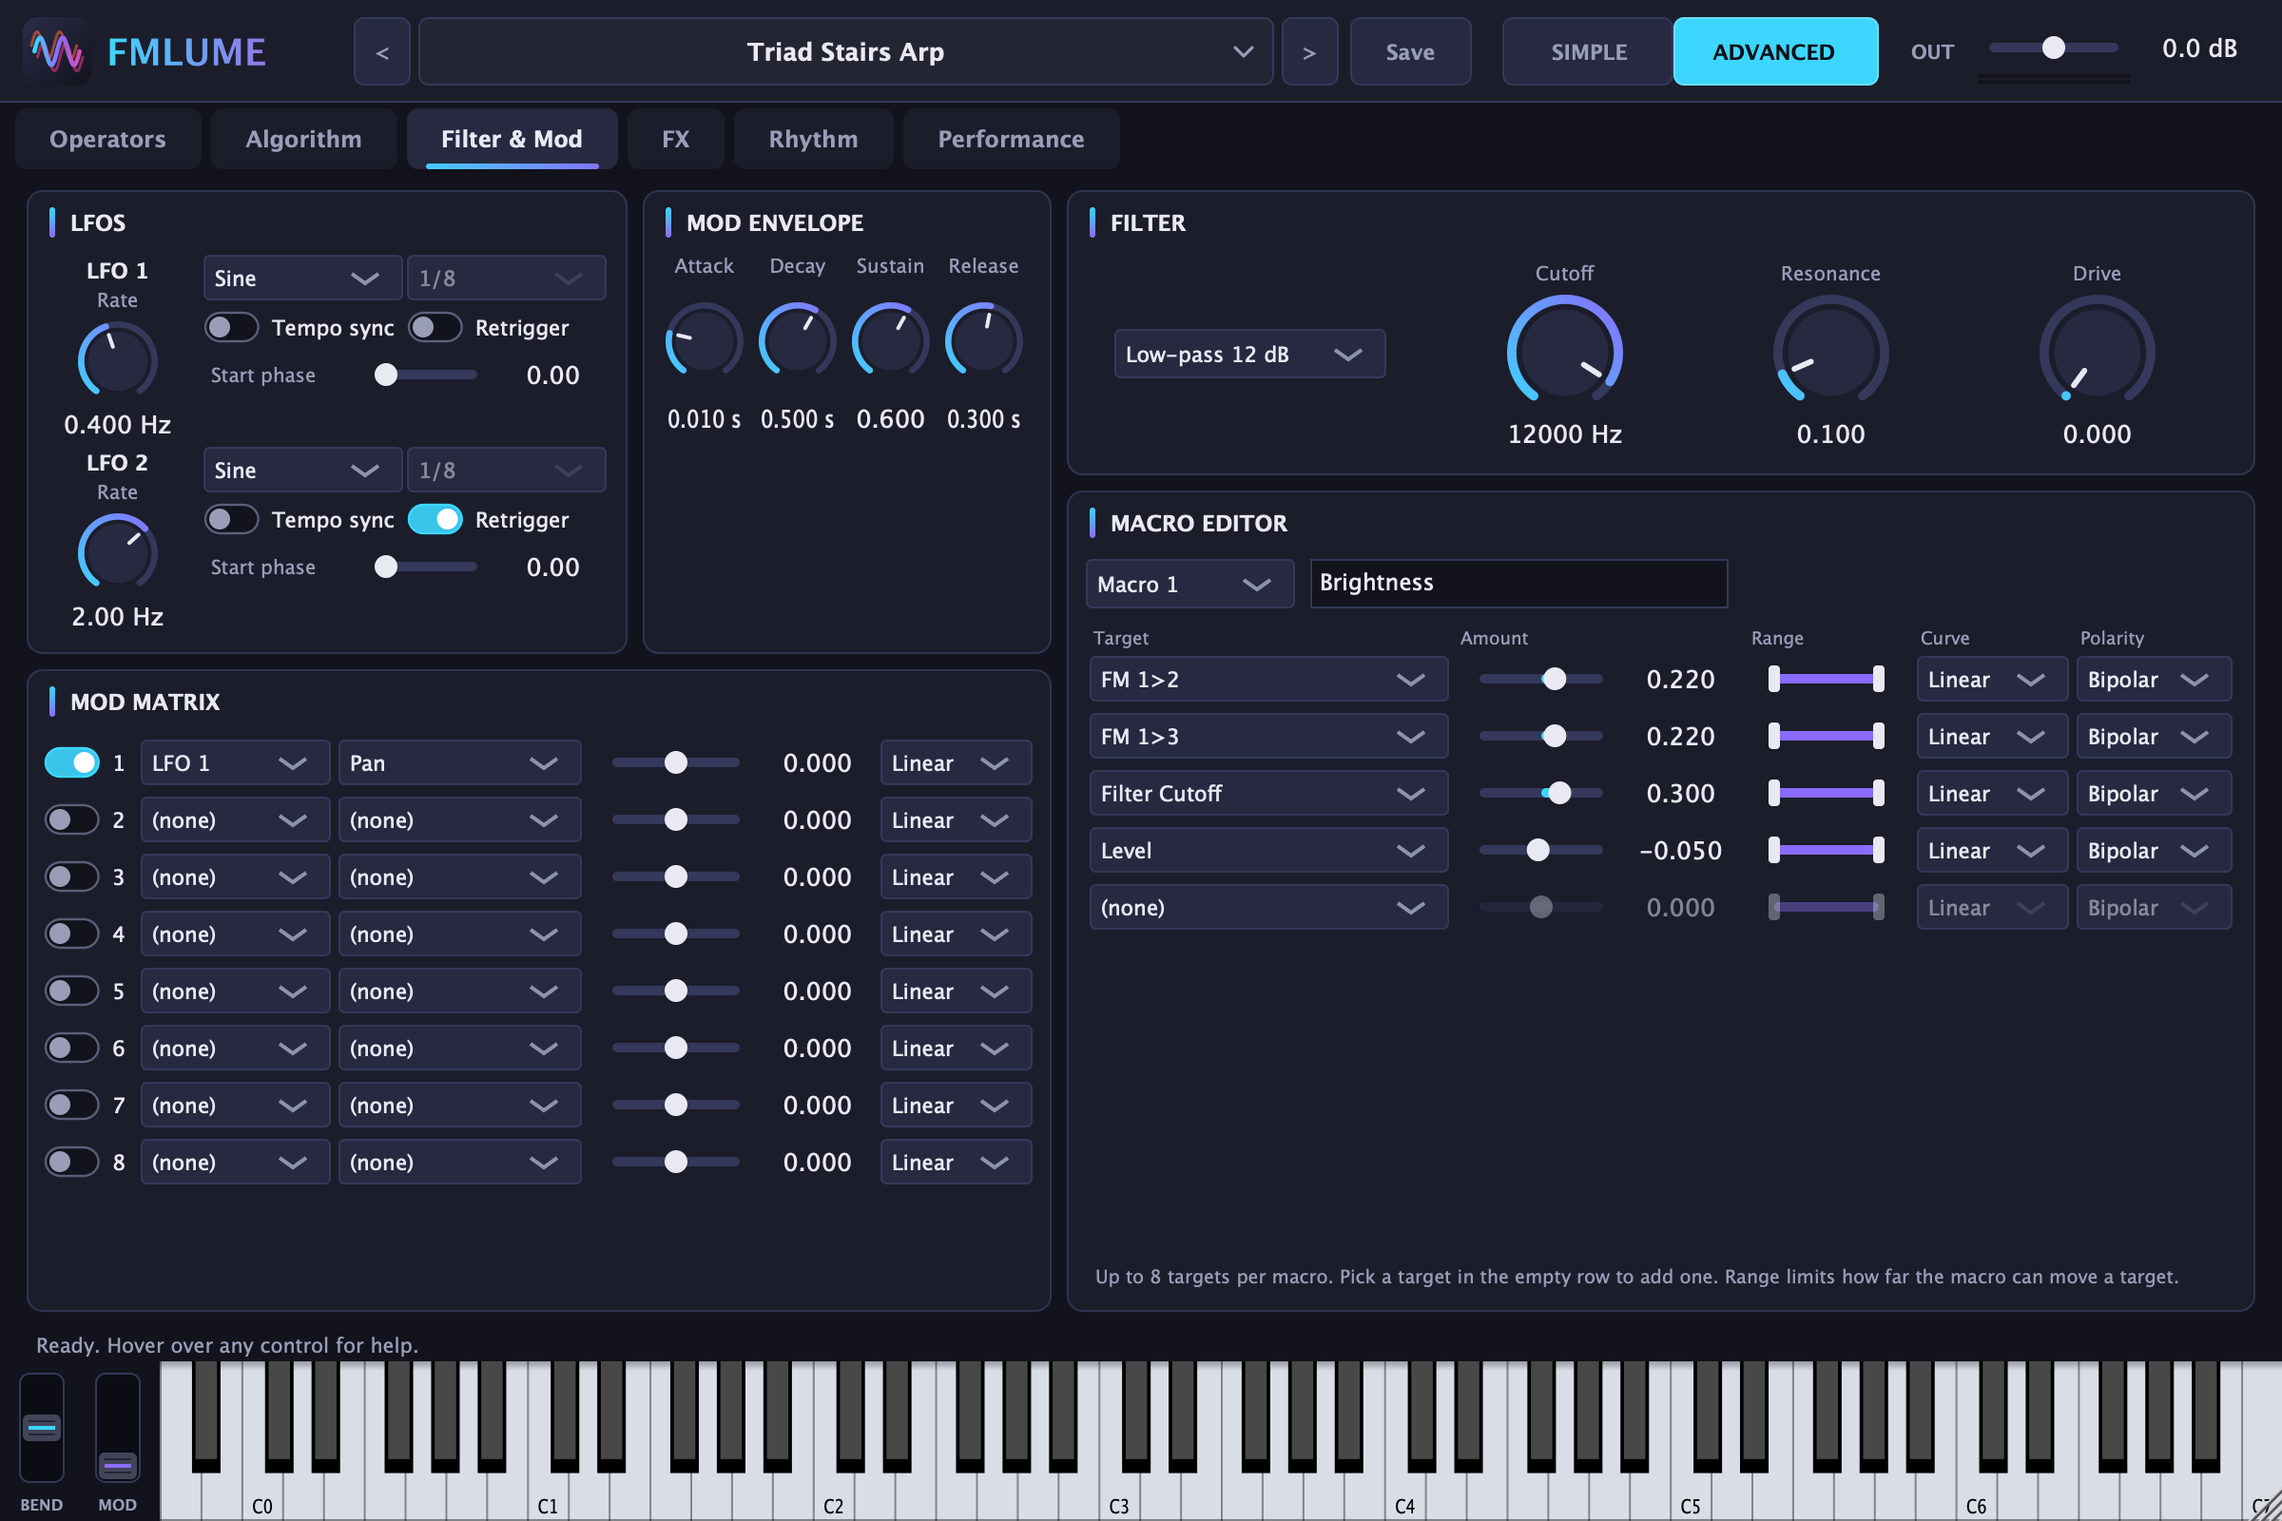
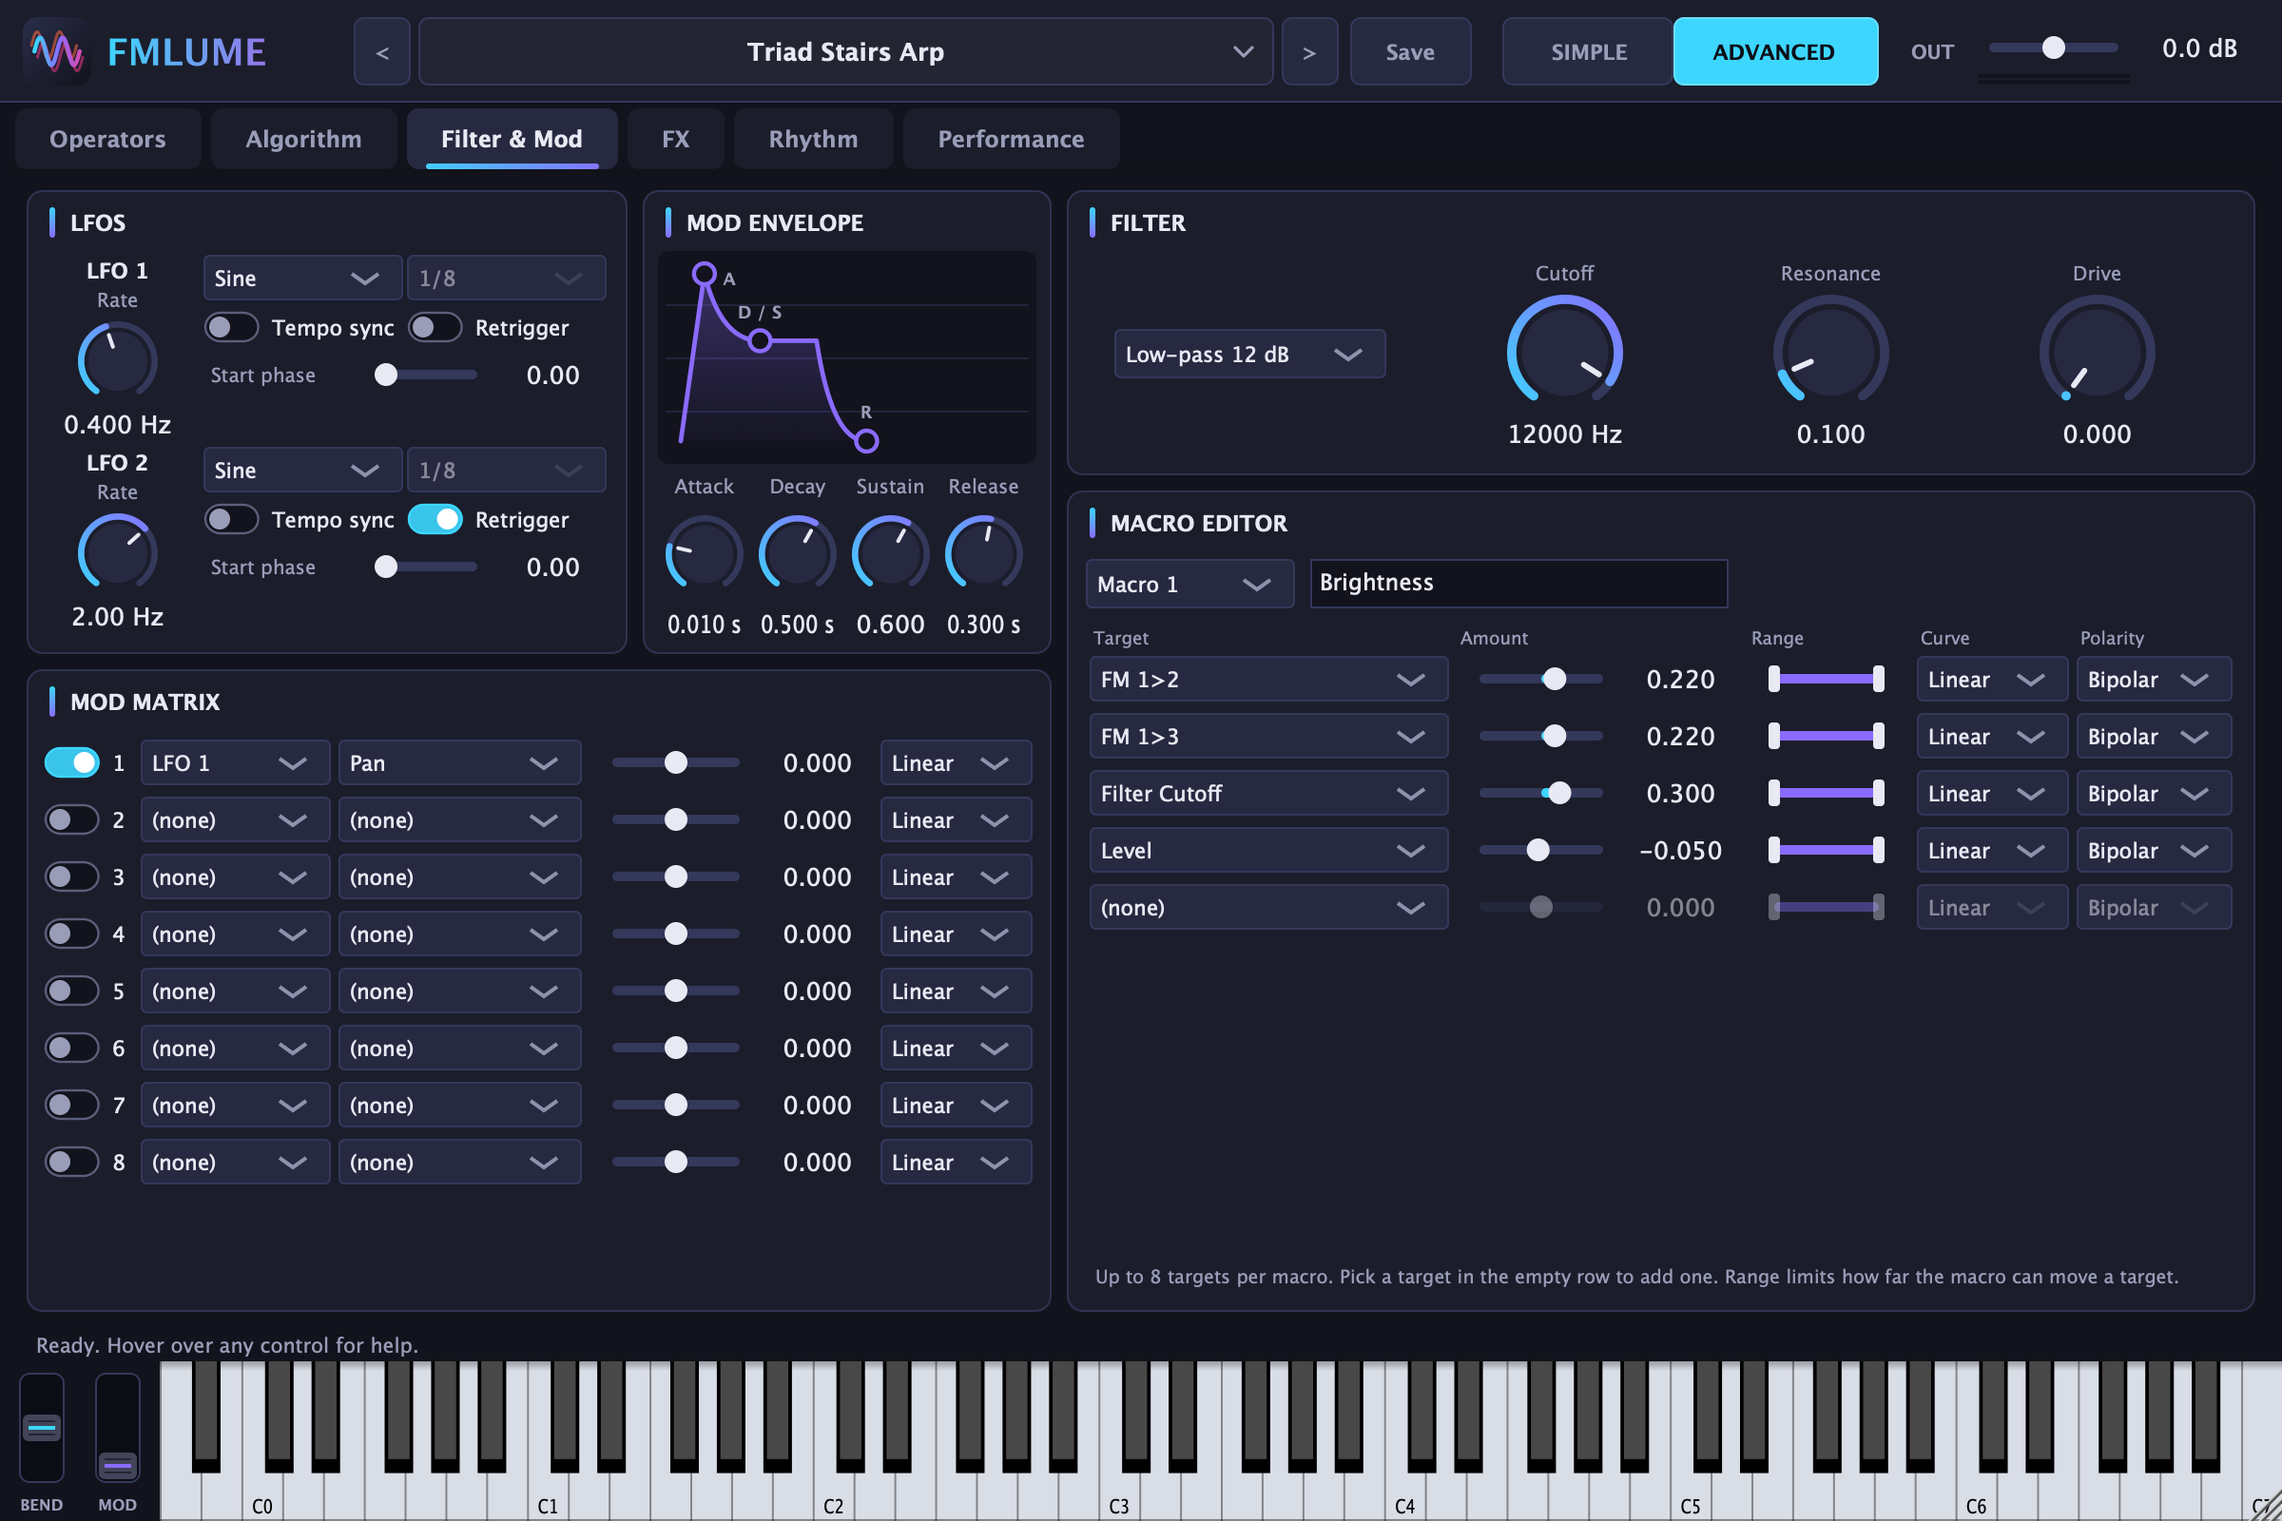
Mod Envelope をグラフで編集できるようにする
Advanced > Filter & Mod の MOD ENVELOPE パネルに、Operators タブと同じ
ADSR グラフを追加。点をドラッグしてアタック、ディケイ / サステイン、
リリースを編集でき、4 つのノブはグラフの下に残して連動する。

- EnvelopeView を「選択中のオペレーター」と「Mod Envelope」の両方で
  使えるように一般化（時間の範囲が違うのでパラメーターコードで換算）
- README、SPEC、サイトのスクリーンショットを更新

Changed region(s): [[0.2812, 0.1562, 0.4688, 0.2812], [0.2812, 0.3125, 0.4688, 0.4375]]

diff --git a/Source/UI/Advanced/OperatorsTab.cpp b/Source/UI/Advanced/OperatorsTab.cpp
@@ -6,8 +6,10 @@ using namespace fmlume;
 
 namespace
 {
-float timeNorm (int field, float seconds) { return toNorm (paramDesc (pc::op (0, field)), seconds); }
-float timeFromNorm (int field, float n) { return fromNorm (paramDesc (pc::op (0, field)), juce::jlimit (0.0f, 1.0f, n)); }
+float timeNorm (int code, float seconds) { return toNorm (paramDesc (code), seconds); }
+float timeFromNorm (int code, float n) { return fromNorm (paramDesc (code), juce::jlimit (0.0f, 1.0f, n)); }
+static_assert (kOpEnvD == kOpEnvA + 1 && kOpEnvS == kOpEnvA + 2 && kOpEnvR == kOpEnvA + 3, "ADSR fields are consecutive");
+static_assert (pc::modEnvD == pc::modEnvA + 1 && pc::modEnvS == pc::modEnvA + 2 && pc::modEnvR == pc::modEnvA + 3, "Mod Envelope codes are consecutive");
 // Envelope graph geometry: each timed stage may take up to `kStage` of the width.
 constexpr float kStage = 0.27f, kHold = 0.17f, kMinStage = 0.04f;
 float stageWidth (float norm, float w) { return (kMinStage + (1.0f - kMinStage) * norm) * w * kStage; }
@@ -23,14 +25,14 @@ juce::String feedsText (const EnginePatch& e, int op)
 }
 
 // ================================================================================= EnvelopeView
-std::array<juce::Point<float>, 3> EnvelopeView::drawEnvelope (juce::Graphics& g, juce::Rectangle<float> r, const ADSR& env, juce::Colour colour, bool fill, float lineWidth)
+std::array<juce::Point<float>, 3> EnvelopeView::drawEnvelope (juce::Graphics& g, juce::Rectangle<float> r, const ADSR& env, juce::Colour colour, bool fill, float lineWidth, int firstCode)
 {
     const float w = r.getWidth(), top = r.getY(), bottom = r.getBottom();
     const float x0 = r.getX();
-    const float x1 = x0 + stageWidth (timeNorm (kOpEnvA, env.a), w);
-    const float x2 = x1 + stageWidth (timeNorm (kOpEnvD, env.d), w);
+    const float x1 = x0 + stageWidth (timeNorm (firstCode, env.a), w);
+    const float x2 = x1 + stageWidth (timeNorm (firstCode + 1, env.d), w);
     const float x3 = x2 + w * kHold;
-    const float x4 = x3 + stageWidth (timeNorm (kOpEnvR, env.r), w);
+    const float x4 = x3 + stageWidth (timeNorm (firstCode + 3, env.r), w);
     const float ys = bottom - juce::jlimit (0.0f, 1.0f, env.s) * r.getHeight();
     juce::Path p;
     p.startNewSubPath (x0, bottom);
@@ -50,16 +52,25 @@ std::array<juce::Point<float>, 3> EnvelopeView::drawEnvelope (juce::Graphics& g,
     return { juce::Point<float> (x1, top), juce::Point<float> (x2, ys), juce::Point<float> (x4, bottom) };
 }
 
-EnvelopeView::EnvelopeView (Ctx& c) : ctx (c)
+EnvelopeView::EnvelopeView (Ctx& c, Source s) : ctx (c), source (s), colour (col::violet)
 {
     setTooltip ("Drag the dots: first = attack time, second = decay time (sideways) and sustain level (up/down), third = release time.");
 }
 
 void EnvelopeView::refresh (const Preset& p)
 {
-    state = p.data.sound.engine.operators[(size_t) ctx.selectedOp];
+    const auto& e = p.data.sound.engine;
+    if (source == Source::ModEnvelope) { env = e.modEnv; colour = col::violet; }
+    else
+    {
+        const auto& op = e.operators[(size_t) ctx.selectedOp];
+        env = op.env;
+        colour = op.enabled ? roleColour (op) : col::textDim;
+    }
     repaint();
 }
+
+int EnvelopeView::firstCode() const { return source == Source::ModEnvelope ? pc::modEnvA : pc::op (ctx.selectedOp, kOpEnvA); }
 
 void EnvelopeView::paint (juce::Graphics& g)
 {
@@ -69,8 +80,8 @@ void EnvelopeView::paint (juce::Graphics& g)
     g.setColour (col::outline.withAlpha (0.5f));
     for (int i = 1; i < 4; ++i) g.drawHorizontalLine (juce::roundToInt (bounds.getY() + bounds.getHeight() * (float) i / 4.0f), bounds.getX() + 4.0f, bounds.getRight() - 4.0f);
     const auto r = bounds.reduced (12.0f, 12.0f);
-    const juce::Colour c = state.enabled ? roleColour (state) : col::textDim;
-    handles = drawEnvelope (g, r, state.env, c, true, 2.4f);
+    const juce::Colour c = colour;
+    handles = drawEnvelope (g, r, env, c, true, 2.4f, firstCode());
     static const char* const names[3] = { "A", "D / S", "R" };
     for (int i = 0; i < 3; ++i)
     {
@@ -111,22 +122,24 @@ void EnvelopeView::mouseDrag (const juce::MouseEvent& e)
     if (dragging < 0) return;
     const auto r = getLocalBounds().toFloat().reduced (12.0f, 12.0f);
     const float w = r.getWidth();
+    const int code = firstCode();
+    const bool mod = source == Source::ModEnvelope;
     const int op = ctx.selectedOp;
     if (dragging == 0)
-        ctx.set (pc::op (op, kOpEnvA), timeFromNorm (kOpEnvA, stageNorm (e.position.x - r.getX(), w)));
+        ctx.set (code, timeFromNorm (code, stageNorm (e.position.x - r.getX(), w)));
     else if (dragging == 1)
     {
         // both values in one validated edit
-        const float decay = timeFromNorm (kOpEnvD, stageNorm (e.position.x - handles[0].x, w));
+        const float decay = timeFromNorm (code + 1, stageNorm (e.position.x - handles[0].x, w));
         const float sustain = juce::jlimit (0.0f, 1.0f, (r.getBottom() - e.position.y) / r.getHeight());
         ctx.edit ([=] (Preset& p) {
-            auto& env = p.data.sound.engine.operators[(size_t) op].env;
-            env.d = decay;
-            env.s = sustain;
+            auto& target = mod ? p.data.sound.engine.modEnv : p.data.sound.engine.operators[(size_t) op].env;
+            target.d = decay;
+            target.s = sustain;
         });
     }
     else
-        ctx.set (pc::op (op, kOpEnvR), timeFromNorm (kOpEnvR, stageNorm (e.position.x - (handles[1].x + w * kHold), w)));
+        ctx.set (code + 3, timeFromNorm (code + 3, stageNorm (e.position.x - (handles[1].x + w * kHold), w)));
 }
 
 void EnvelopeView::mouseUp (const juce::MouseEvent&)

diff --git a/Source/UI/Advanced/ModulationTab.cpp b/Source/UI/Advanced/ModulationTab.cpp
@@ -273,8 +273,9 @@ struct ModulationTab::MappingRow final : public juce::Component
     bool updating = false;
 };
 
-ModulationTab::ModulationTab (Ctx& c) : ctx (c)
+ModulationTab::ModulationTab (Ctx& c) : ctx (c), envGraph (c, EnvelopeView::Source::ModEnvelope)
 {
+    addAndMakeVisible (envGraph);
     for (int i = 0; i < 2; ++i) { lfos[i] = std::make_unique<LfoBox> (ctx, i); addAndMakeVisible (*lfos[i]); }
     static const char* const envNames[4] = { "Attack", "Decay", "Sustain", "Release" };
     for (int i = 0; i < 4; ++i) addAndMakeVisible (envKnobs.add (new ModelKnob (ctx, pc::modEnvA + i, envNames[i])));
@@ -359,8 +360,12 @@ void ModulationTab::resized()
     lfos[0]->setBounds (l.removeFromTop (l.getHeight() / 2).reduced (0, 2));
     lfos[1]->setBounds (l.reduced (0, 2));
     auto e = envArea.reduced (8).withTrimmedTop (24);
-    const int kw = e.getWidth() / 4;
-    for (auto* k : envKnobs) k->setBounds (e.removeFromLeft (kw).withHeight (juce::jmin (e.getHeight(), 96)));
+    // graph on top, the four knobs (exact values) below it
+    auto knobRow = e.removeFromBottom (juce::jlimit (64, 88, e.getHeight() * 46 / 100));
+    e.removeFromBottom (4);
+    envGraph.setBounds (e);
+    const int kw = knobRow.getWidth() / 4;
+    for (auto* k : envKnobs) k->setBounds (knobRow.removeFromLeft (kw));
     auto m = matrixArea.reduced (8).withTrimmedTop (26);
     const int rh = juce::jmin (30, juce::jmax (22, m.getHeight() / kNumModSlots));
     for (auto* row : matrix) row->setBounds (m.removeFromTop (rh).reduced (0, 2));
@@ -394,6 +399,7 @@ void ModulationTab::refresh (const Preset& p)
     rebuildTargets (p);
     for (auto& l : lfos) l->refresh (p);
     for (auto* k : envKnobs) k->refresh();
+    envGraph.refresh (p);
     filterType->refreshFrom (p);
     const bool filterOn = p.data.sound.engine.filter.type != FilterType::Off;
     for (auto* k : filterKnobs) { k->refresh(); k->setAlpha (filterOn ? 1.0f : 0.45f); }

diff --git a/Source/UI/Advanced/OperatorsTab.h b/Source/UI/Advanced/OperatorsTab.h
@@ -27,11 +27,12 @@ private:
     bool draggingLevel = false;
 };
 
-// Interactive ADSR graph of the selected operator.
+// Interactive ADSR graph: the envelope of the selected operator, or the Mod Envelope.
 class EnvelopeView final : public juce::Component, public juce::SettableTooltipClient
 {
 public:
-    explicit EnvelopeView (Ctx&);
+    enum class Source { SelectedOperator, ModEnvelope };
+    explicit EnvelopeView (Ctx&, Source = Source::SelectedOperator);
     void paint (juce::Graphics&) override;
     void mouseDown (const juce::MouseEvent&) override;
     void mouseDrag (const juce::MouseEvent&) override;
@@ -39,12 +40,18 @@ public:
     void mouseMove (const juce::MouseEvent&) override;
     void refresh (const fmlume::Preset&);
     // Draws an ADSR curve into `area`; returns the three handle points (attack, decay/sustain, release).
-    static std::array<juce::Point<float>, 3> drawEnvelope (juce::Graphics&, juce::Rectangle<float> area, const fmlume::ADSR&, juce::Colour, bool fill, float lineWidth);
+    // `firstCode` is the parameter code of the attack time (decay, sustain and release follow it):
+    // operator and Mod Envelope times have different ranges.
+    static std::array<juce::Point<float>, 3> drawEnvelope (juce::Graphics&, juce::Rectangle<float> area, const fmlume::ADSR&, juce::Colour, bool fill, float lineWidth,
+                                                           int firstCode = fmlume::pc::op (0, fmlume::kOpEnvA));
 
 private:
     int handleAt (juce::Point<float>) const;
+    int firstCode() const; // attack-time code of the envelope being shown
     Ctx& ctx;
-    fmlume::OperatorState state;
+    Source source;
+    fmlume::ADSR env;
+    juce::Colour colour;
     std::array<juce::Point<float>, 3> handles {};
     int dragging = -1, hover = -1;
 };

diff --git a/Source/UI/Advanced/ModulationTab.h b/Source/UI/Advanced/ModulationTab.h
@@ -1,5 +1,6 @@
 #pragma once
 #include "UI/Common/Bindings.h"
+#include "UI/Advanced/OperatorsTab.h"
 
 namespace ui
 {
@@ -19,6 +20,7 @@ private:
     void rebuildTargets (const fmlume::Preset&);
     Ctx& ctx;
     std::unique_ptr<LfoBox> lfos[2];
+    EnvelopeView envGraph;
     juce::OwnedArray<ModelKnob> envKnobs, filterKnobs;
     std::unique_ptr<BoundCombo> filterType;
     juce::OwnedArray<MatrixRow> matrix;

diff --git a/README.md b/README.md
@@ -83,7 +83,7 @@ auval -v aumu Fmld Chbw   # 開発用。製品版は Fmlu
 2. **MACROS / CHARACTER** — `Brightness / Attack / Release / Character` とカテゴリ別の4マクロ。50%が元の音。
 3. **FX / TRANCE GATE / ARPEGGIATOR** — `Warmth / Width / Space / Echo`、ゲートのパターン（POLYBRISK と同じパターン集）、アルペジオのモードとレート。
 4. **VARIATIONS** — `Generate` で8つのバリエーションを作り、タイル（A〜H）をクリックして試聴、気に入ったら `Keep this sound`（元の音と置き換わります）。`More like this` でさらに派生、`Original` で元の音に戻ります。
-5. **ADVANCED** — Operators（オペレーターカード＋波形・エンベロープのグラフ編集）/ Algorithm（テンプレート一覧と DX 風ダイアグラム、ドラッグで接続）/ Filter & Mod / FX / Rhythm / Performance。
+5. **ADVANCED** — Operators（オペレーターカード＋波形・エンベロープのグラフ編集）/ Algorithm（テンプレート一覧と DX 風ダイアグラム、ドラッグで接続）/ Filter & Mod（Mod Envelope もグラフをドラッグして編集）/ FX / Rhythm / Performance。
 
 ロゴとアイコンは `assets/branding/`（`python3 tools/branding/make_assets.py` で SVG を再生成、`fmlume-uisnap --icon` で PNG 化）。
 

diff --git a/SPEC.md b/SPEC.md
@@ -449,7 +449,7 @@ tranceGate.enabled  [0, 1]
 
 **Simple（v1.1）:** MACROS（共通4）＋CHARACTER（カテゴリ別4）→ FX Quick Controls / Trance Gate / Arpeggiator → Variations（Sound Explorer）。詳細機能はAdvancedに隠すが、Simpleで初期音色を選び直してもゼロから音を作れる。
 
-**Advanced（v1.1）:** `Operators / Algorithm / Filter & Mod / FX / Rhythm / Performance` タブ。Operators は6枚のカードと、選択した1オペレーターの波形・エンベロープのグラフ編集。FX の順番はドラッグ＆ドロップで並べ替える。ルーティング図、操作ノブ、値直接入力、右クリック初期化、双方向マクロ反映。
+**Advanced（v1.1）:** `Operators / Algorithm / Filter & Mod / FX / Rhythm / Performance` タブ。Operators は6枚のカードと、選択した1オペレーターの波形・エンベロープのグラフ編集。Filter & Mod の Mod Envelope も同じグラフで編集できる。FX の順番はドラッグ＆ドロップで並べ替える。ルーティング図、操作ノブ、値直接入力、右クリック初期化、双方向マクロ反映。
 
 ### 14.2 画面品質
 
